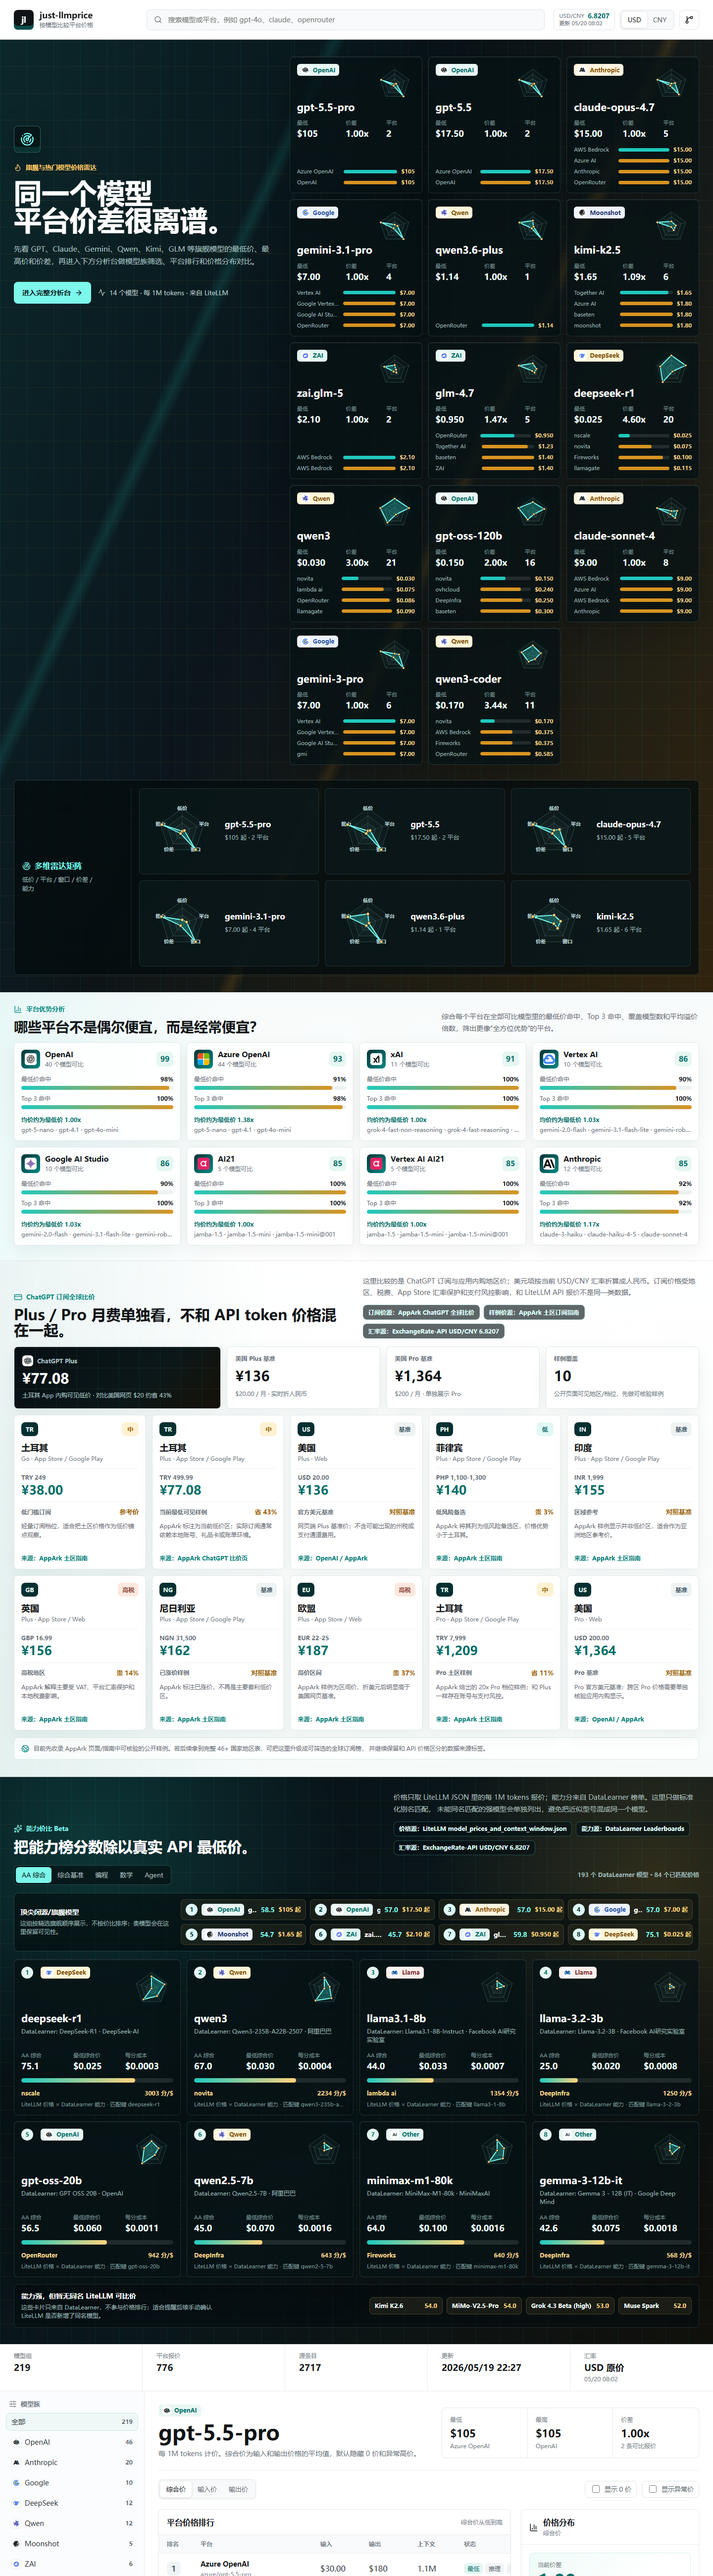
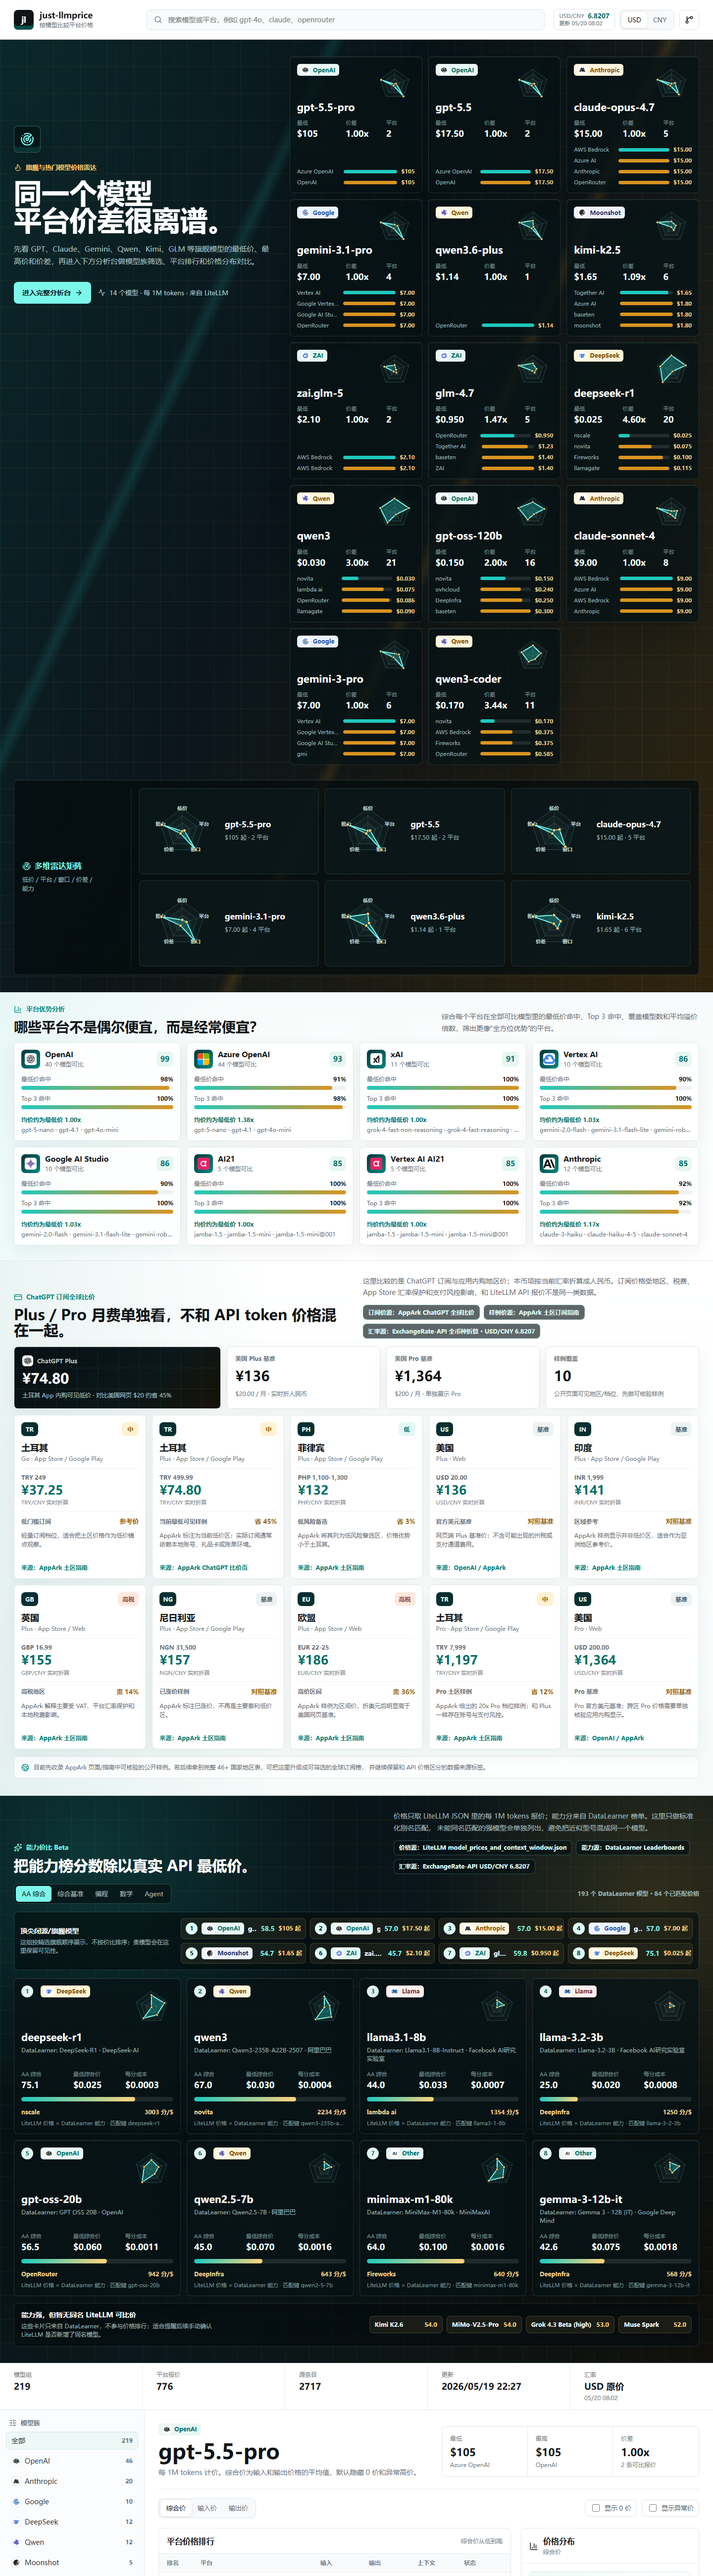
Add live currency conversion for ChatGPT subscriptions

diff --git a/src/App.tsx b/src/App.tsx
@@ -95,6 +95,7 @@ type PlatformLogoMeta = BrandMeta
 
 type ExchangeRateState = {
   usdToCny: number
+  rates: Record<string, number> | null
   updatedAt: string | null
   nextUpdateAt: string | null
   sourceName: string
@@ -154,6 +155,9 @@ type ChatGptSubscriptionItem = {
   plan: 'Go' | 'Plus' | 'Pro'
   channel: string
   localPrice: string
+  currencyCode?: string
+  localAmount?: number
+  localAmountMax?: number
   usdMonthly?: number
   cnyMonthly?: number
   sourceName: string
@@ -198,7 +202,7 @@ const litellmSourceUrl = 'https://github.com/BerriAI/litellm/blob/main/model_pri
 const exchangeRateSourceUrl = 'https://www.exchangerate-api.com/docs/free'
 const exchangeRateEndpoint = 'https://open.er-api.com/v6/latest/USD'
 const chatGptApparkSourceUrl = 'https://appark.ai/cn/cheapest-price/chatgpt'
-const chatGptApparkTurkeyGuideUrl = 'https://appark.ai/cn/blog/complete-guide-chatgpt-plus-turkey-2026'
+const chatGptApparkTurkeyGuideUrl = 'https://appark.ai/cn/blog/chatgpt-turkey-discount-subscription-guide'
 const chatGptOfficialPricingUrl = 'https://openai.com/chatgpt/pricing/'
 const chatGptPlusBaselineUsd = 20
 const chatGptProBaselineUsd = 200
@@ -290,6 +294,8 @@ const chatGptSubscriptionItems: ChatGptSubscriptionItem[] = [
     plan: 'Plus',
     channel: 'App Store / Google Play',
     localPrice: 'TRY 499.99',
+    currencyCode: 'TRY',
+    localAmount: 499.99,
     cnyMonthly: 77.08,
     sourceName: 'AppArk ChatGPT 比价页',
     sourceUrl: chatGptApparkSourceUrl,
@@ -304,6 +310,8 @@ const chatGptSubscriptionItems: ChatGptSubscriptionItem[] = [
     plan: 'Go',
     channel: 'App Store / Google Play',
     localPrice: 'TRY 249',
+    currencyCode: 'TRY',
+    localAmount: 249,
     cnyMonthly: 38,
     sourceName: 'AppArk 土区指南',
     sourceUrl: chatGptApparkTurkeyGuideUrl,
@@ -318,6 +326,9 @@ const chatGptSubscriptionItems: ChatGptSubscriptionItem[] = [
     plan: 'Plus',
     channel: 'App Store / Google Play',
     localPrice: 'PHP 1,100-1,300',
+    currencyCode: 'PHP',
+    localAmount: 1100,
+    localAmountMax: 1300,
     usdMonthly: 20.5,
     sourceName: 'AppArk 土区指南',
     sourceUrl: chatGptApparkTurkeyGuideUrl,
@@ -332,6 +343,8 @@ const chatGptSubscriptionItems: ChatGptSubscriptionItem[] = [
     plan: 'Plus',
     channel: 'Web',
     localPrice: 'USD 20.00',
+    currencyCode: 'USD',
+    localAmount: chatGptPlusBaselineUsd,
     usdMonthly: chatGptPlusBaselineUsd,
     sourceName: 'OpenAI / AppArk',
     sourceUrl: chatGptOfficialPricingUrl,
@@ -346,6 +359,8 @@ const chatGptSubscriptionItems: ChatGptSubscriptionItem[] = [
     plan: 'Plus',
     channel: 'App Store / Web',
     localPrice: 'GBP 16.99',
+    currencyCode: 'GBP',
+    localAmount: 16.99,
     usdMonthly: 22.8,
     sourceName: 'AppArk 土区指南',
     sourceUrl: chatGptApparkTurkeyGuideUrl,
@@ -360,6 +375,8 @@ const chatGptSubscriptionItems: ChatGptSubscriptionItem[] = [
     plan: 'Plus',
     channel: 'App Store / Google Play',
     localPrice: 'INR 1,999',
+    currencyCode: 'INR',
+    localAmount: 1999,
     usdMonthly: 22.7,
     sourceName: 'AppArk 土区指南',
     sourceUrl: chatGptApparkTurkeyGuideUrl,
@@ -374,6 +391,8 @@ const chatGptSubscriptionItems: ChatGptSubscriptionItem[] = [
     plan: 'Plus',
     channel: 'App Store / Google Play',
     localPrice: 'NGN 31,500',
+    currencyCode: 'NGN',
+    localAmount: 31500,
     usdMonthly: 23.8,
     sourceName: 'AppArk 土区指南',
     sourceUrl: chatGptApparkTurkeyGuideUrl,
@@ -388,6 +407,9 @@ const chatGptSubscriptionItems: ChatGptSubscriptionItem[] = [
     plan: 'Plus',
     channel: 'App Store / Web',
     localPrice: 'EUR 22-25',
+    currencyCode: 'EUR',
+    localAmount: 22,
+    localAmountMax: 25,
     usdMonthly: 27.35,
     sourceName: 'AppArk 土区指南',
     sourceUrl: chatGptApparkTurkeyGuideUrl,
@@ -402,6 +424,8 @@ const chatGptSubscriptionItems: ChatGptSubscriptionItem[] = [
     plan: 'Pro',
     channel: 'Web',
     localPrice: 'USD 200.00',
+    currencyCode: 'USD',
+    localAmount: chatGptProBaselineUsd,
     usdMonthly: chatGptProBaselineUsd,
     sourceName: 'OpenAI / AppArk',
     sourceUrl: chatGptOfficialPricingUrl,
@@ -416,6 +440,8 @@ const chatGptSubscriptionItems: ChatGptSubscriptionItem[] = [
     plan: 'Pro',
     channel: 'App Store / Google Play',
     localPrice: 'TRY 7,999',
+    currencyCode: 'TRY',
+    localAmount: 7999,
     cnyMonthly: 1209,
     sourceName: 'AppArk 土区指南',
     sourceUrl: chatGptApparkTurkeyGuideUrl,
@@ -436,10 +462,28 @@ function formatPrice(value: number | null | undefined, currency: Currency, usdTo
   return `${prefix}${Math.round(converted).toLocaleString()}`
 }
 
-function subscriptionMonthlyCny(item: ChatGptSubscriptionItem, usdToCny: number) {
+function subscriptionMonthlyCny(item: ChatGptSubscriptionItem, exchangeRate: ExchangeRateState) {
+  const localAmount =
+    item.localAmount !== undefined && item.localAmountMax !== undefined
+      ? (item.localAmount + item.localAmountMax) / 2
+      : item.localAmount
+  const currencyRate = item.currencyCode ? exchangeRate.rates?.[item.currencyCode] : null
+
+  if (localAmount !== undefined && item.currencyCode === 'USD') return localAmount * exchangeRate.usdToCny
+  if (localAmount !== undefined && currencyRate && exchangeRate.rates?.CNY) {
+    return (localAmount / currencyRate) * exchangeRate.rates.CNY
+  }
   if (item.cnyMonthly !== undefined) return item.cnyMonthly
-  if (item.usdMonthly !== undefined) return item.usdMonthly * usdToCny
+  if (item.usdMonthly !== undefined) return item.usdMonthly * exchangeRate.usdToCny
   return null
+}
+
+function subscriptionFxLabel(item: ChatGptSubscriptionItem, exchangeRate: ExchangeRateState) {
+  if (!item.currencyCode || item.currencyCode === 'USD') return 'USD/CNY 实时折算'
+  if (item.currencyCode && exchangeRate.rates?.[item.currencyCode] && exchangeRate.rates?.CNY) {
+    return `${item.currencyCode}/CNY 实时折算`
+  }
+  return 'AppArk 样例折算'
 }
 
 function formatSubscriptionCny(value: number | null) {
@@ -489,6 +533,7 @@ function formatRateDate(value: string | null) {
 function getInitialExchangeRate(): ExchangeRateState {
   const fallback: ExchangeRateState = {
     usdToCny: fallbackUsdToCny,
+    rates: null,
     updatedAt: null,
     nextUpdateAt: null,
     sourceName: '固定回退汇率',
@@ -503,7 +548,7 @@ function getInitialExchangeRate(): ExchangeRateState {
     const cached = window.localStorage.getItem('just-llmprice-usd-cny')
     if (!cached) return fallback
     const parsed = JSON.parse(cached) as ExchangeRateState
-    return parsed.usdToCny > 0 ? parsed : fallback
+    return parsed.usdToCny > 0 ? { ...fallback, ...parsed, rates: parsed.rates ?? null } : fallback
   } catch {
     window.localStorage.removeItem('just-llmprice-usd-cny')
     return fallback
@@ -890,6 +935,7 @@ function App() {
         if (payload.result !== 'success' || !rate || rate <= 0) throw new Error('USD/CNY 汇率缺失')
         const next: ExchangeRateState = {
           usdToCny: rate,
+          rates: payload.rates ?? null,
           updatedAt: payload.time_last_update_utc ?? new Date().toISOString(),
           nextUpdateAt: payload.time_next_update_utc ?? null,
           sourceName: 'ExchangeRate-API',
@@ -1040,16 +1086,17 @@ function App() {
   const chatGptProBaselineCny = chatGptProBaselineUsd * usdToCny
   const chatGptSubscriptionRows = chatGptSubscriptionItems
     .map((item) => {
-      const monthlyCny = subscriptionMonthlyCny(item, usdToCny)
+      const monthlyCny = subscriptionMonthlyCny(item, exchangeRate)
       const baselineCny =
         item.plan === 'Pro' ? chatGptProBaselineCny : item.plan === 'Plus' ? chatGptPlusBaselineCny : null
       const savings = baselineCny && monthlyCny ? ((baselineCny - monthlyCny) / baselineCny) * 100 : null
-      return { ...item, monthlyCny, savings }
+      return { ...item, monthlyCny, savings, fxLabel: subscriptionFxLabel(item, exchangeRate) }
     })
     .toSorted((a, b) => (a.monthlyCny ?? Number.POSITIVE_INFINITY) - (b.monthlyCny ?? Number.POSITIVE_INFINITY))
-  const turkeyPlusCny = subscriptionMonthlyCny(chatGptSubscriptionItems.find((item) => item.id === 'tr-plus')!, usdToCny)
+  const turkeyPlusCny = subscriptionMonthlyCny(chatGptSubscriptionItems.find((item) => item.id === 'tr-plus')!, exchangeRate)
   const turkeyPlusSavings =
     turkeyPlusCny && chatGptPlusBaselineCny ? ((chatGptPlusBaselineCny - turkeyPlusCny) / chatGptPlusBaselineCny) * 100 : null
+  const subscriptionFxScope = exchangeRate.rates ? '全币种折算' : 'USD/CNY 折算'
   const fxStatusLabel =
     exchangeRate.status === 'live'
       ? `更新 ${formatRateDate(exchangeRate.updatedAt)}`
@@ -1208,7 +1255,7 @@ function App() {
         </div>
       </section>
 
-      <section className="chatgpt-section" id="chatgpt-subscriptions" aria-label="ChatGPT 订阅全球比价">
+      <section className="chatgpt-section" id="chatgpt-subscription" aria-label="ChatGPT 订阅全球比价">
         <div className="chatgpt-head">
           <div>
             <span>
@@ -1219,7 +1266,7 @@ function App() {
           </div>
           <div>
             <p>
-              这里比较的是 ChatGPT 订阅与应用内购地区价；美元项按当前 USD/CNY 汇率折算成人民币。订阅价格受地区、税费、App Store
+              这里比较的是 ChatGPT 订阅与应用内购地区价；本币项按当前汇率折算成人民币。订阅价格受地区、税费、App Store
               汇率保护和支付风控影响，和 LiteLLM API 报价不是同一类数据。
             </p>
             <div className="source-links chatgpt-source-links" aria-label="ChatGPT 订阅数据来源">
@@ -1230,7 +1277,7 @@ function App() {
                 样例价源：AppArk 土区订阅指南
               </a>
               <a href={exchangeRate.sourceUrl} rel="noreferrer" target="_blank">
-                汇率源：{exchangeRate.sourceName} USD/CNY {usdToCny.toFixed(4)}
+                汇率源：{exchangeRate.sourceName} {subscriptionFxScope} · USD/CNY {usdToCny.toFixed(4)}
               </a>
             </div>
           </div>
@@ -1674,6 +1721,7 @@ function ChatGptSubscriptionCard({
   item: ChatGptSubscriptionItem & {
     monthlyCny: number | null
     savings: number | null
+    fxLabel: string
   }
 }) {
   const isBaseline = item.risk === '基准'
@@ -1696,6 +1744,7 @@ function ChatGptSubscriptionCard({
       <div className="chatgpt-card-price">
         <span>{item.localPrice}</span>
         <strong>{formatSubscriptionCny(item.monthlyCny)}</strong>
+        <small>{item.fxLabel}</small>
       </div>
       <div className="chatgpt-card-meta">
         <span>{item.signal}</span>

diff --git a/src/App.css b/src/App.css
@@ -896,6 +896,11 @@
   font-weight: 760;
 }
 
+.chatgpt-card-price small {
+  color: #7a838c;
+  font-size: 11px;
+}
+
 .chatgpt-card-price strong {
   color: #006e67;
   font-size: 25px;
